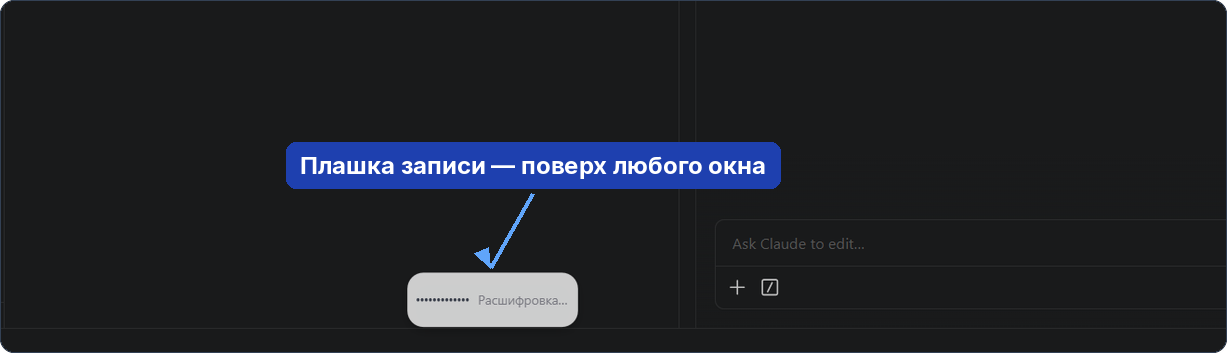
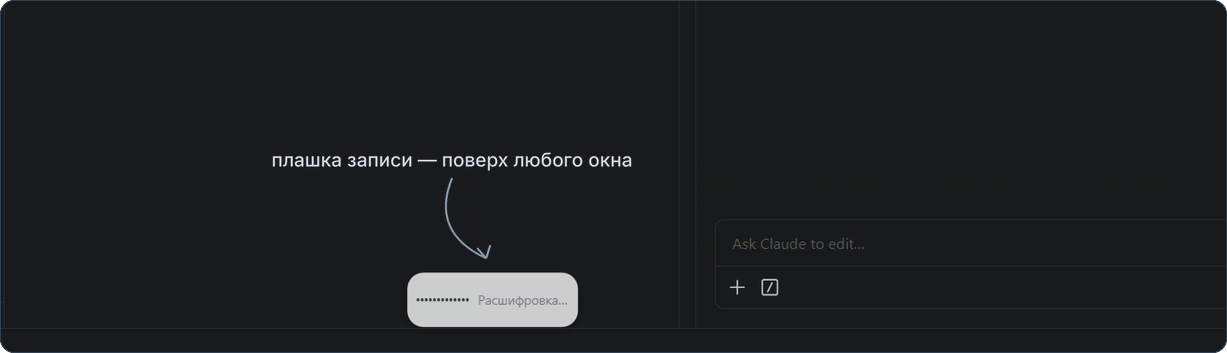
Логотип следует теме GitHub; аннотация на кадре записи стала тише
Шапка переключалась по теме операционной системы, а не по теме GitHub:
при светлой теме сайта на тёмной Windows подставлялась белая надпись
на белом фоне. Заменено на gh-light-mode-only / gh-dark-mode-only.

Аннотация на первом кадре перерисована: тонкая дуга и подпись без
заливок вместо жирной стрелки с плашкой.

Changed region(s): [[0.2168, 0.4051, 0.6504, 0.7479]]

diff --git a/README.md b/README.md
@@ -1,9 +1,6 @@
 <p align="center">
-  <picture>
-    <source media="(prefers-color-scheme: dark)" srcset="assets/logo-dark.png">
-    <source media="(prefers-color-scheme: light)" srcset="assets/logo-light.png">
-    <img src="assets/logo-light.png" alt="Speecher" width="440">
-  </picture>
+  <img src="assets/logo-light.png#gh-light-mode-only" alt="Speecher" width="440">
+  <img src="assets/logo-dark.png#gh-dark-mode-only" alt="Speecher" width="440">
 </p>
 
 <p align="center">
